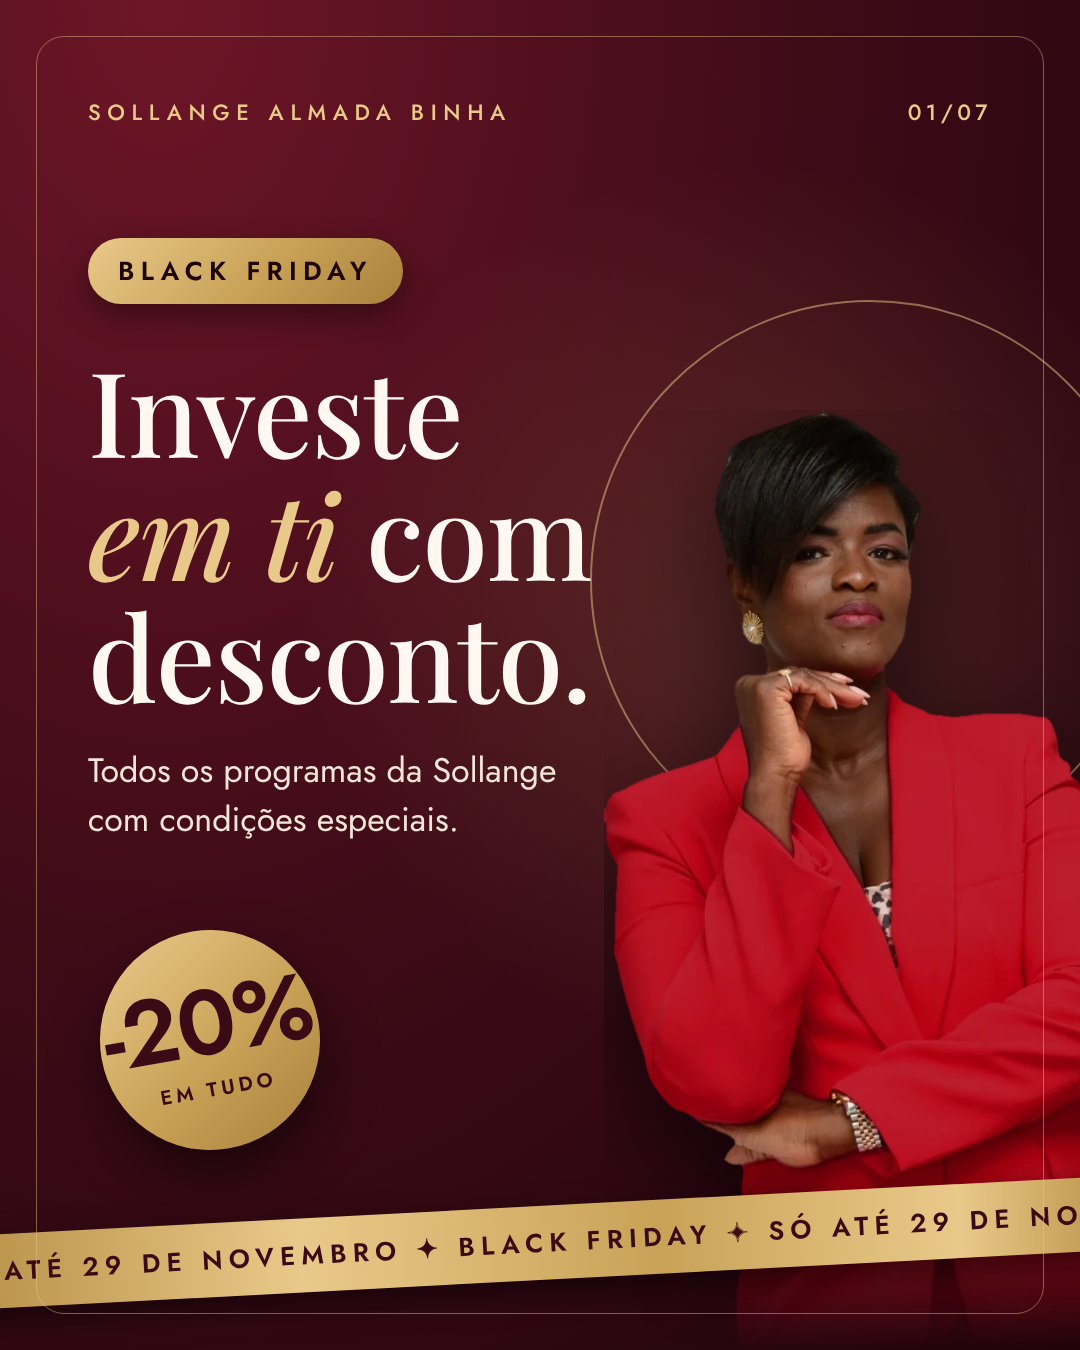
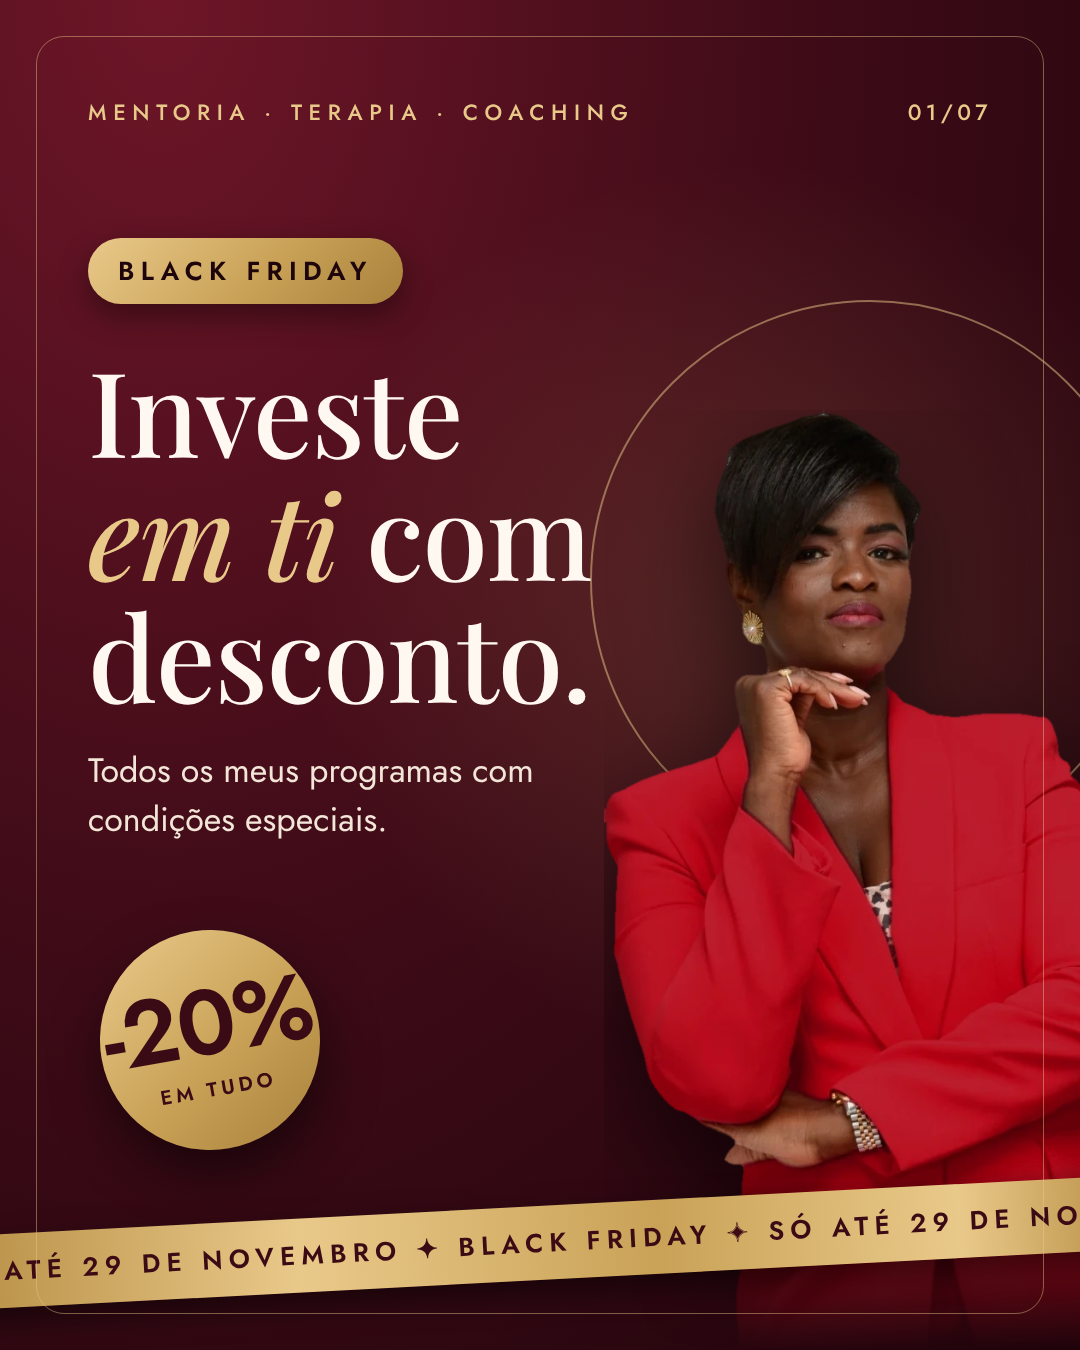
Carousel: write in first person for her own profile
Claude-Session: https://claude.ai/code/session_01LHQJ2mQGDsvNSWxv53LoAn

Changed region(s): [[0.1222, 0.56, 0.5194, 0.6222], [0.0917, 0.0622, 0.5806, 0.0933]]

diff --git a/carrossel/carrossel-black-friday.html b/carrossel/carrossel-black-friday.html
@@ -44,13 +44,13 @@ p.txt{font:400 34px/1.45 Jost;color:#F3E6D8}
 
 <!-- 1. CAPA -->
 <section class="slide" id="s1">
-<div class="top"><span class="marca">Sollange Almada Binha</span><span class="pag">01/07</span></div>
+<div class="top"><span class="marca">Mentoria · Terapia · Coaching</span><span class="pag">01/07</span></div>
 <div class="anel" style="width:560px;height:560px;right:-70px;top:300px"></div>
 <img class="foto" src="../fotos/recortes/sollange-vermelho-pose.webp" style="right:-110px;bottom:0;height:940px" alt="">
 <div style="position:relative;z-index:4;margin-top:110px;max-width:540px">
 <span class="tag">Black Friday</span>
 <h1 style="font-size:118px;margin:44px 0 30px">Investe <em>em ti</em> com desconto.</h1>
-<p class="txt" style="max-width:470px">Todos os programas da Sollange com condições especiais.</p>
+<p class="txt" style="max-width:470px">Todos os meus programas com condições especiais.</p>
 </div>
 <div class="selo" style="left:100px;bottom:200px;width:220px;height:220px"><b>-20%</b><span>em tudo</span></div>
 <div class="faixa ouro" style="bottom:70px;transform:rotate(-3deg)">Só até 29 de novembro ✦ Black Friday ✦ Só até 29 de novembro ✦ Black Friday ✦</div>
@@ -58,7 +58,7 @@ p.txt{font:400 34px/1.45 Jost;color:#F3E6D8}
 
 <!-- 2. GANCHO -->
 <section class="slide" id="s2">
-<div class="top"><span class="marca">Sollange Almada Binha</span><span class="pag">02/07</span></div>
+<div class="top"><span class="marca">Mentoria · Terapia · Coaching</span><span class="pag">02/07</span></div>
 <div style="position:relative;z-index:4;margin-top:150px">
 <div class="quote-i">“</div>
 <h2 style="font-size:96px;margin:56px 0 48px">Fazes tudo por todos.<br><em>Quando foi a última vez que fizeste algo por ti?</em></h2>
@@ -70,7 +70,7 @@ p.txt{font:400 34px/1.45 Jost;color:#F3E6D8}
 
 <!-- 3. MENTORIAS -->
 <section class="slide" id="s3">
-<div class="top"><span class="marca">Sollange Almada Binha</span><span class="pag">03/07</span></div>
+<div class="top"><span class="marca">Mentoria · Terapia · Coaching</span><span class="pag">03/07</span></div>
 <div style="position:relative;z-index:4;margin-top:150px">
 <p class="eyebrow">Mentorias de 6 meses</p>
 <h2 style="font-size:92px;margin:24px 0 56px">O processo <em>mais profundo</em>.</h2>
@@ -82,7 +82,7 @@ p.txt{font:400 34px/1.45 Jost;color:#F3E6D8}
 
 <!-- 4. INTENSIVOS -->
 <section class="slide" id="s4">
-<div class="top"><span class="marca">Sollange Almada Binha</span><span class="pag">04/07</span></div>
+<div class="top"><span class="marca">Mentoria · Terapia · Coaching</span><span class="pag">04/07</span></div>
 <div style="position:relative;z-index:4;margin-top:150px">
 <p class="eyebrow">Programas intensivos</p>
 <h2 style="font-size:92px;margin:24px 0 50px">Um tema, <em>um foco</em>.</h2>
@@ -95,7 +95,7 @@ p.txt{font:400 34px/1.45 Jost;color:#F3E6D8}
 
 <!-- 5. PRIMEIROS PASSOS -->
 <section class="slide" id="s5">
-<div class="top"><span class="marca">Sollange Almada Binha</span><span class="pag">05/07</span></div>
+<div class="top"><span class="marca">Mentoria · Terapia · Coaching</span><span class="pag">05/07</span></div>
 <div style="position:relative;z-index:4;margin-top:150px">
 <p class="eyebrow">Primeiros passos</p>
 <h2 style="font-size:92px;margin:24px 0 50px">Para começares <em>hoje</em>.</h2>
@@ -108,7 +108,7 @@ p.txt{font:400 34px/1.45 Jost;color:#F3E6D8}
 
 <!-- 6. DEPOIMENTO -->
 <section class="slide" id="s6">
-<div class="top"><span class="marca">Sollange Almada Binha</span><span class="pag">06/07</span></div>
+<div class="top"><span class="marca">Mentoria · Terapia · Coaching</span><span class="pag">06/07</span></div>
 <div class="anel" style="width:440px;height:440px;right:-60px;bottom:200px"></div>
 <img class="foto" src="../fotos/recortes/sollange-vermelho-sorriso.webp" style="right:-90px;bottom:0;height:700px" alt="">
 <div style="position:relative;z-index:4;margin-top:120px;max-width:640px">
@@ -122,7 +122,7 @@ p.txt{font:400 34px/1.45 Jost;color:#F3E6D8}
 
 <!-- 7. CTA -->
 <section class="slide" id="s7">
-<div class="top"><span class="marca">Sollange Almada Binha</span><span class="pag">07/07</span></div>
+<div class="top"><span class="marca">Mentoria · Terapia · Coaching</span><span class="pag">07/07</span></div>
 <div class="anel" style="width:500px;height:500px;right:-110px;top:330px"></div>
 <img class="foto" src="../fotos/recortes/sollange-preto.webp" style="right:-200px;bottom:0;height:860px" alt="">
 <div style="position:relative;z-index:4;margin-top:110px;max-width:560px">
